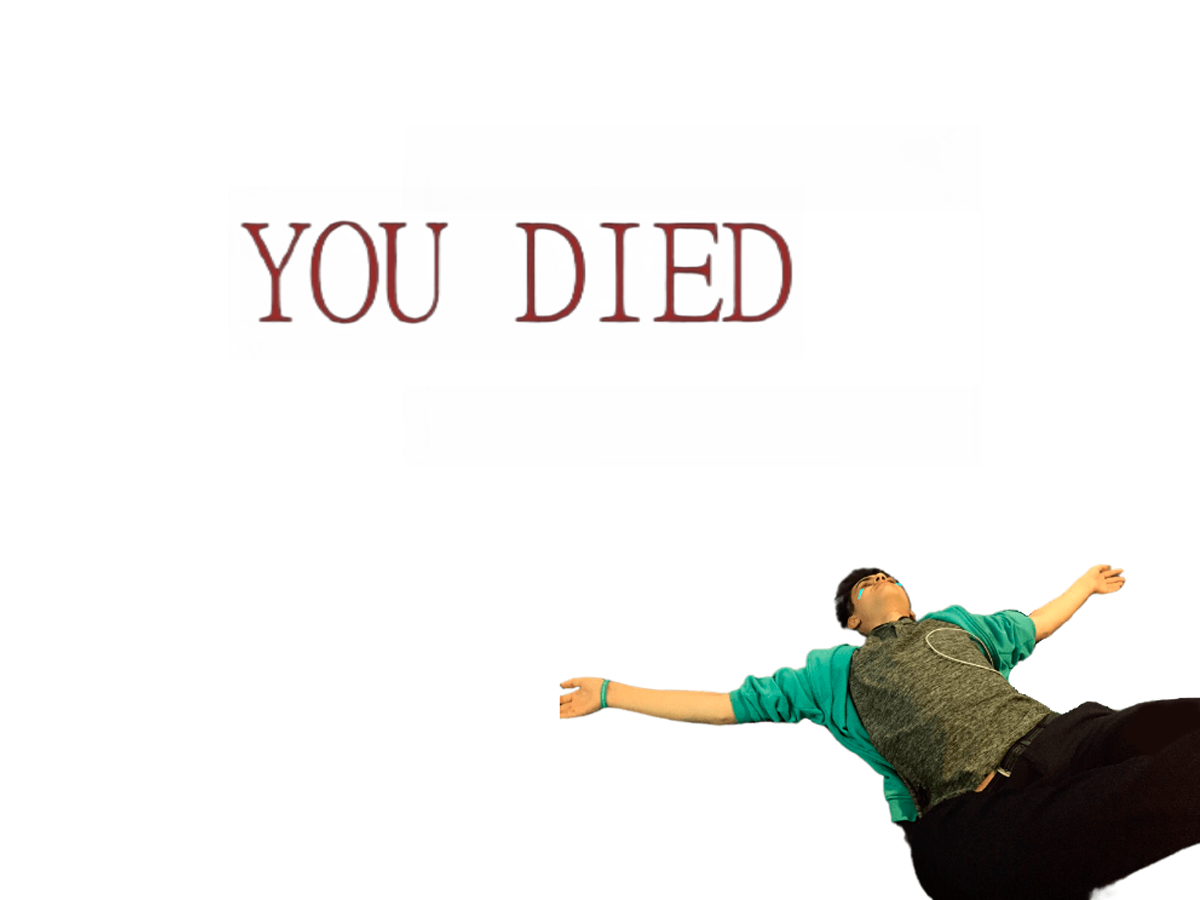
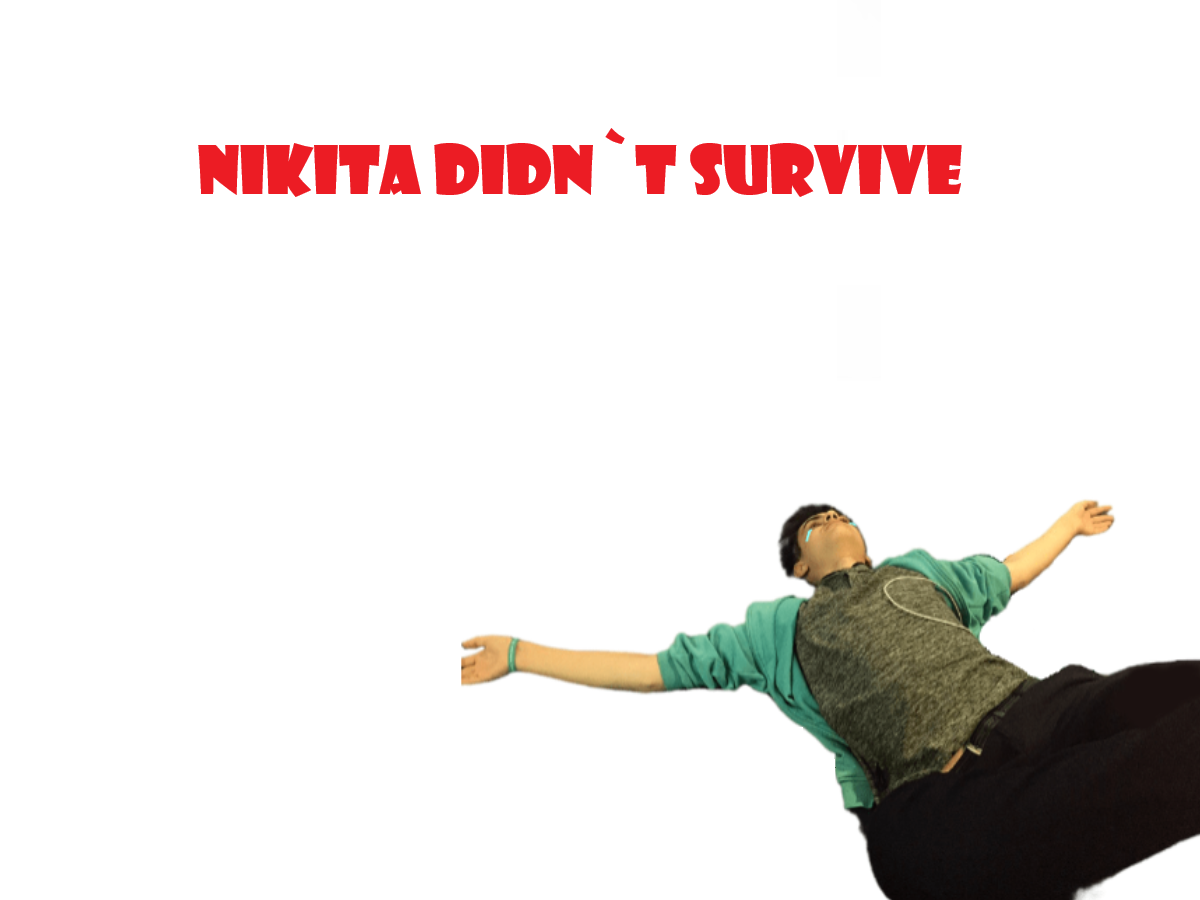
end menu is working

diff --git a/enemy_controller.py b/enemy_controller.py
@@ -1,6 +1,6 @@
 from config import *
 import pygame
-from math import atan2, pi, sqrt
+from math import atan2, pi, sqrt, sin, cos
 from random import randint, random
 import numpy as np
 from animations import Animation, Animator
@@ -39,7 +39,6 @@ class Enemy:
             self.rect_to_draw = image.get_rect(center = self.rect.center)
             self.rect_to_draw.x = self.rect.x - x - 10 + WIDTH/2
             self.rect_to_draw.y = self.rect.y - y - 10 + HEIGHT/2
-            pygame.draw.rect(screen, GREEN, self.rect_to_draw)
             screen.blit(image, (self.rect_to_draw.x, self.rect_to_draw.y))
 
 
@@ -118,7 +117,7 @@ class Enemy_Controller:
                             to_delete.append(i)
                             self.player.get_exp(self.exp_for_enemy * sqrt(1 + enemy.type))
                             exp +=  int(self.exp_for_enemy * sqrt(1 + enemy.type))
-                            self.player.heal(orbit.damage * orbit.vampire * 10)
+                            self.player.heal(orbit.damage * orbit.vampire * 2)
         to_delete = set(to_delete)
         for i in to_delete:
             self.enemies.pop(i)
@@ -135,5 +134,7 @@ class Enemy_Controller:
 
     def spawn_enemy(self):
         for i in range(self.max_enemies - len(self.enemies)):
-            self.enemies[self.enemy_counter] = Enemy(randint(0, 3600), randint(0, 2700), 5, 500, 60 * self.enemy_power / 10)
+            r = random()* 1000 + 400
+            angle = random() * 2 * pi
+            self.enemies[self.enemy_counter] = Enemy(self.player.rect.x + r * cos(angle), self.player.rect.y + r * sin(angle), 4, 500, 60 * self.enemy_power / 10)
             self.enemy_counter += 1

diff --git a/main.py b/main.py
@@ -37,6 +37,9 @@ class Menu:
             surface.blit(option, option_rect)
 
 
+
+
+
 ending_menu = Menu()
 ending_menu.new_option("start", lambda: game_start())
 ending_menu.new_option("quit", lambda: pygame.quit())
@@ -47,7 +50,7 @@ starting_menu.new_option("start", lambda: game_start())
 starting_menu.new_option("quit", lambda: pygame.quit())
 
 running = True    
-
+name = 'legenda'
 
 def get_range(x1, y1, x2, y2):
     return ((x1 - x2) ** 2 + (y1 - y2) ** 2) ** 0.5
@@ -132,9 +135,7 @@ class Game:
             case 2:
                 self.enemy_controler.damage_reduce *= 0.9
             case 3:
-                for orbit in self.player.orbits:
-                    orbit.set_speed(1.2)
-                self.player.damage *= 1.2
+                self.player.orbits[0].new_weapon(self.player)
             case 4:
                 for orbit in self.player.orbits:
                     orbit.set_damage(1.1)
@@ -254,6 +255,8 @@ def loop(game):
             game.render_exp()
             game.render_level()
         if game.player.death:
+            with open('leaderboard.csv', 'a') as f:
+                f.write(f'{name}, {game.score}\n')
             break
         pygame.display.update()
     end_menu()

diff --git a/player.py b/player.py
@@ -45,7 +45,7 @@ class Player(pygame.sprite.Sprite):
         self.sprites = [((10, 3), (65, 3)), ((126, 3), (202, 3), (16, 150)), ((76, 150), (134, 150), (192, 150)), ((17, 293), (83, 293))]
         self.health = 100
         self.max_health = 100
-        self.orbits = [Orbit([], 200, 0.07, self.damage, 10, (200, 0, 0)), Orbit([Weapon(self, 150, -0.035, 20)], 150, -0.035, self.damage*4, 15, (139, 0, 255))]
+        self.orbits = [Orbit([], 200, 0.07, self.damage, 10, (200, 0, 0)), Orbit([Weapon(self, 150, -0.035, 20)], 150, -0.035, self.damage*4, 20, (139, 0, 255))]
         self.death = False
         self.vampire = 0
         Animations = []
@@ -94,7 +94,6 @@ class Player(pygame.sprite.Sprite):
             case 3:
                 self.animator.set_animation(3)
         screen.blit(self.image, (x, y), (*self.animator.get_sprite(1), self.w, self.h))
-        pygame.draw.rect(screen, (255, 0, 0), (x, y, self.rect.width, self.rect.height))
         for orbit in self.orbits:
             for weapon in orbit.weapons:
                 pygame.draw.circle(screen, orbit.color, (x + weapon.x + self.w/2, y + weapon.y + self.h/2), weapon.Radius)
